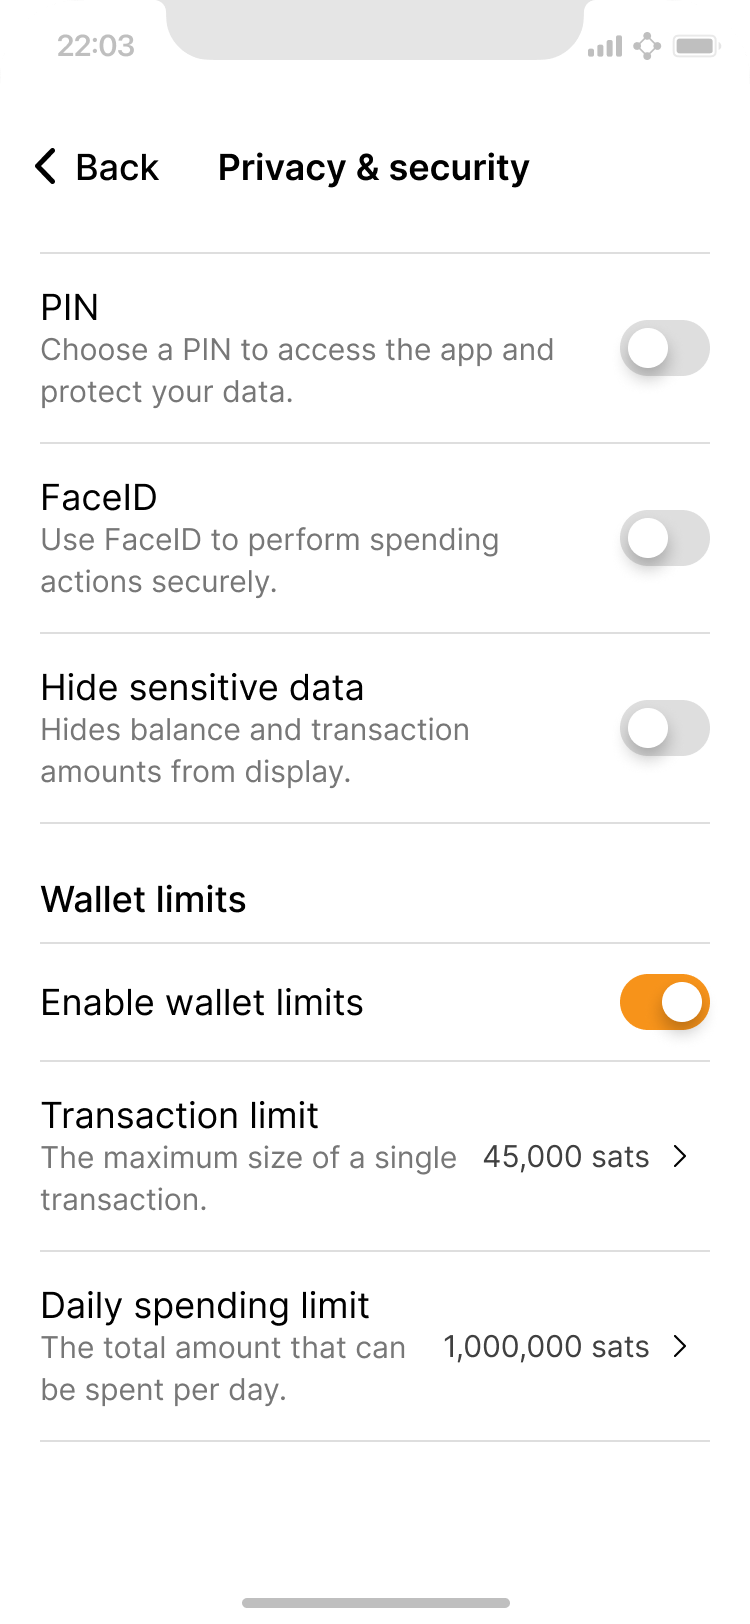
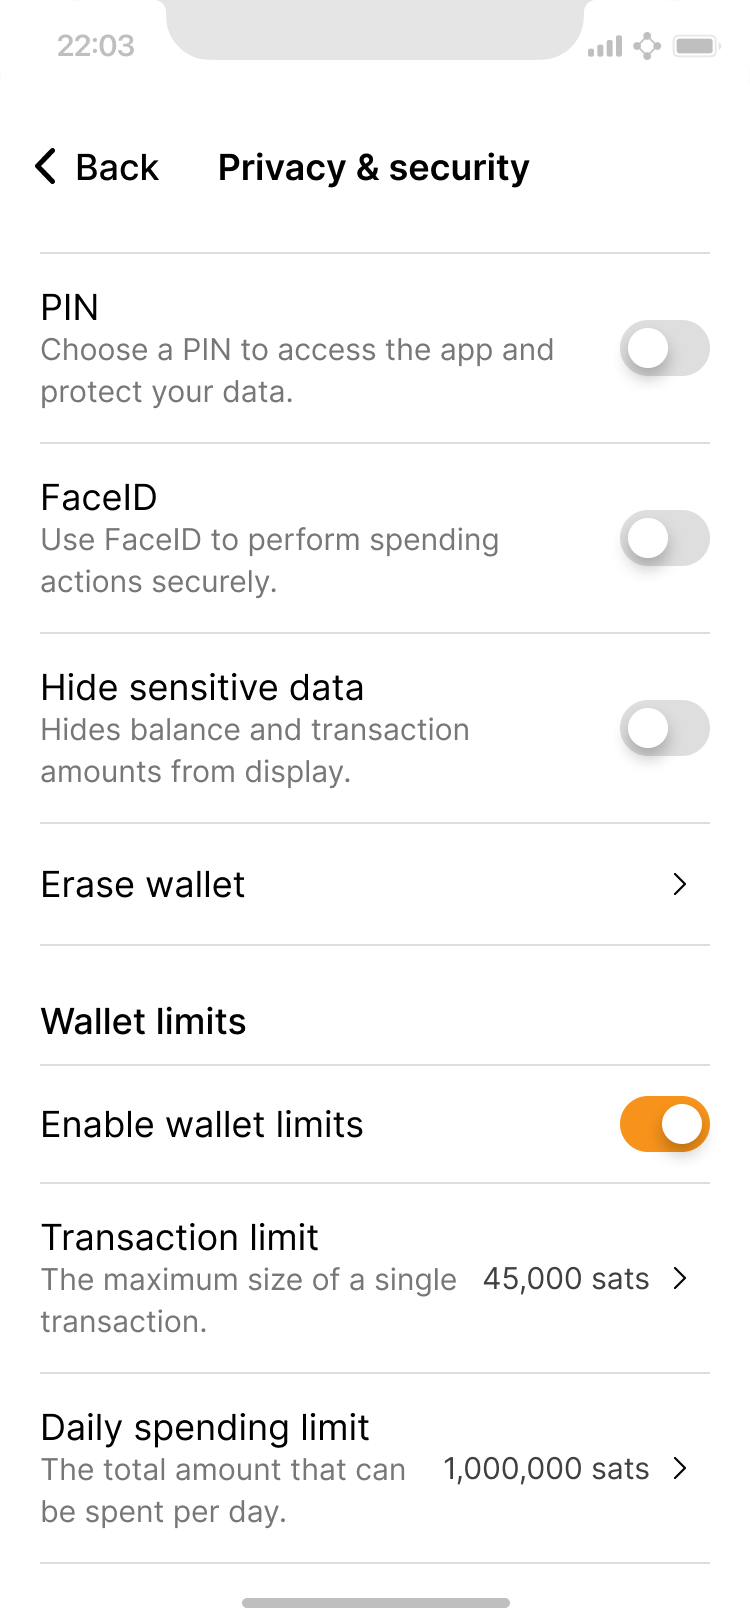
Delete wallet info

diff --git a/guide/daily-spending-wallet/security.md b/guide/daily-spending-wallet/security.md
@@ -226,6 +226,27 @@ After a user has backed up their recovery phrase, an option to delete it may be 
 
 </div>
 
+## Deleting wallet data
+
+<div class="center" markdown="1">
+
+{% include picture.html
+   image = "/assets/images/guide/daily-spending-wallet/security/delete-wallet.png"
+   retina = "/assets/images/guide/daily-spending-wallet/security/delete-wallet@2x.png"
+   modalImage = "/assets/images/guide/daily-spending-wallet/security/delete-wallet.png"
+   alt-text = "Screen to confirm wallet deletion"
+   caption = "Tapping continue should show another modal for a final confirmation."
+   width = 250
+   height = 541
+   layout = "float-right-desktop -background -shadow"
+%}
+
+Whether it is after migrating to a new device, or during an emergency situation, a user may want to delete all wallet data, ensuring that it cannot be easily recovered on the device. Note that this is specific to the device. Data stored in a cloud backup will stay untouched.
+
+Also consider allowing the user to choose a unique PIN to quickly delete wallet data in case of an emergency.
+
+</div>
+
 ## Preventing theft when offline
 
 Lightning wallets need to be online to monitor their payment channels to prevent their counterparties from attempting to steal their bitcoin. Mobile wallets, however, are frequently offline, usually due to a poor connection or the user not having the wallet open on their device.
